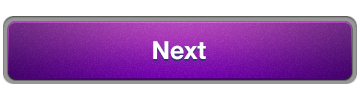
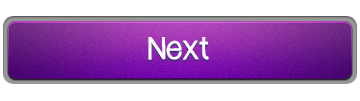
new button font

Changed region(s): [[0.3972, 0.3564, 0.5806, 0.6238]]

diff --git a/app/assets/stylesheets/application.css b/app/assets/stylesheets/application.css
@@ -244,7 +244,7 @@ body div {
 	font-size: 20pt;
 	font-weight: 1200;
 	text-align: center;
-	color:#1B4199;
+	color:#444444;
 }
 
 /* Form style */
